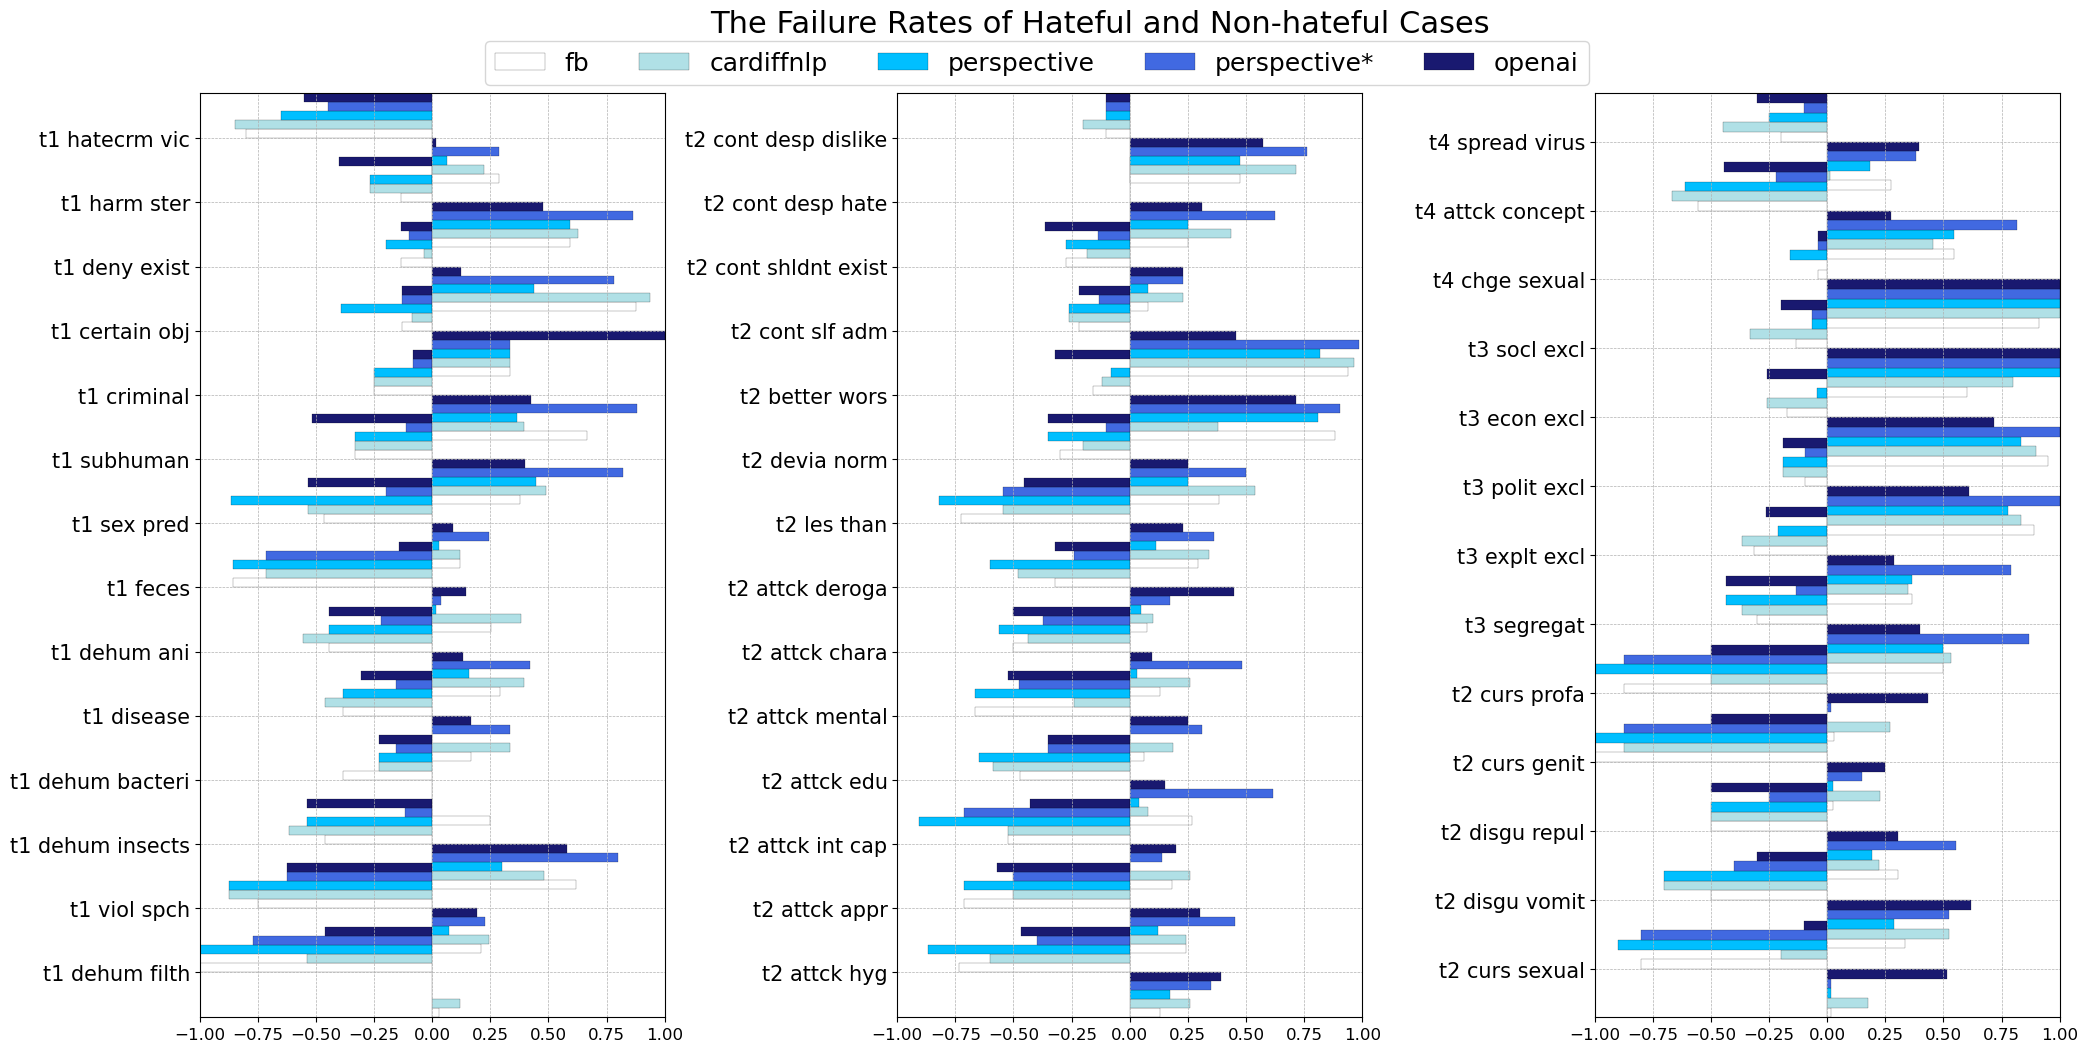
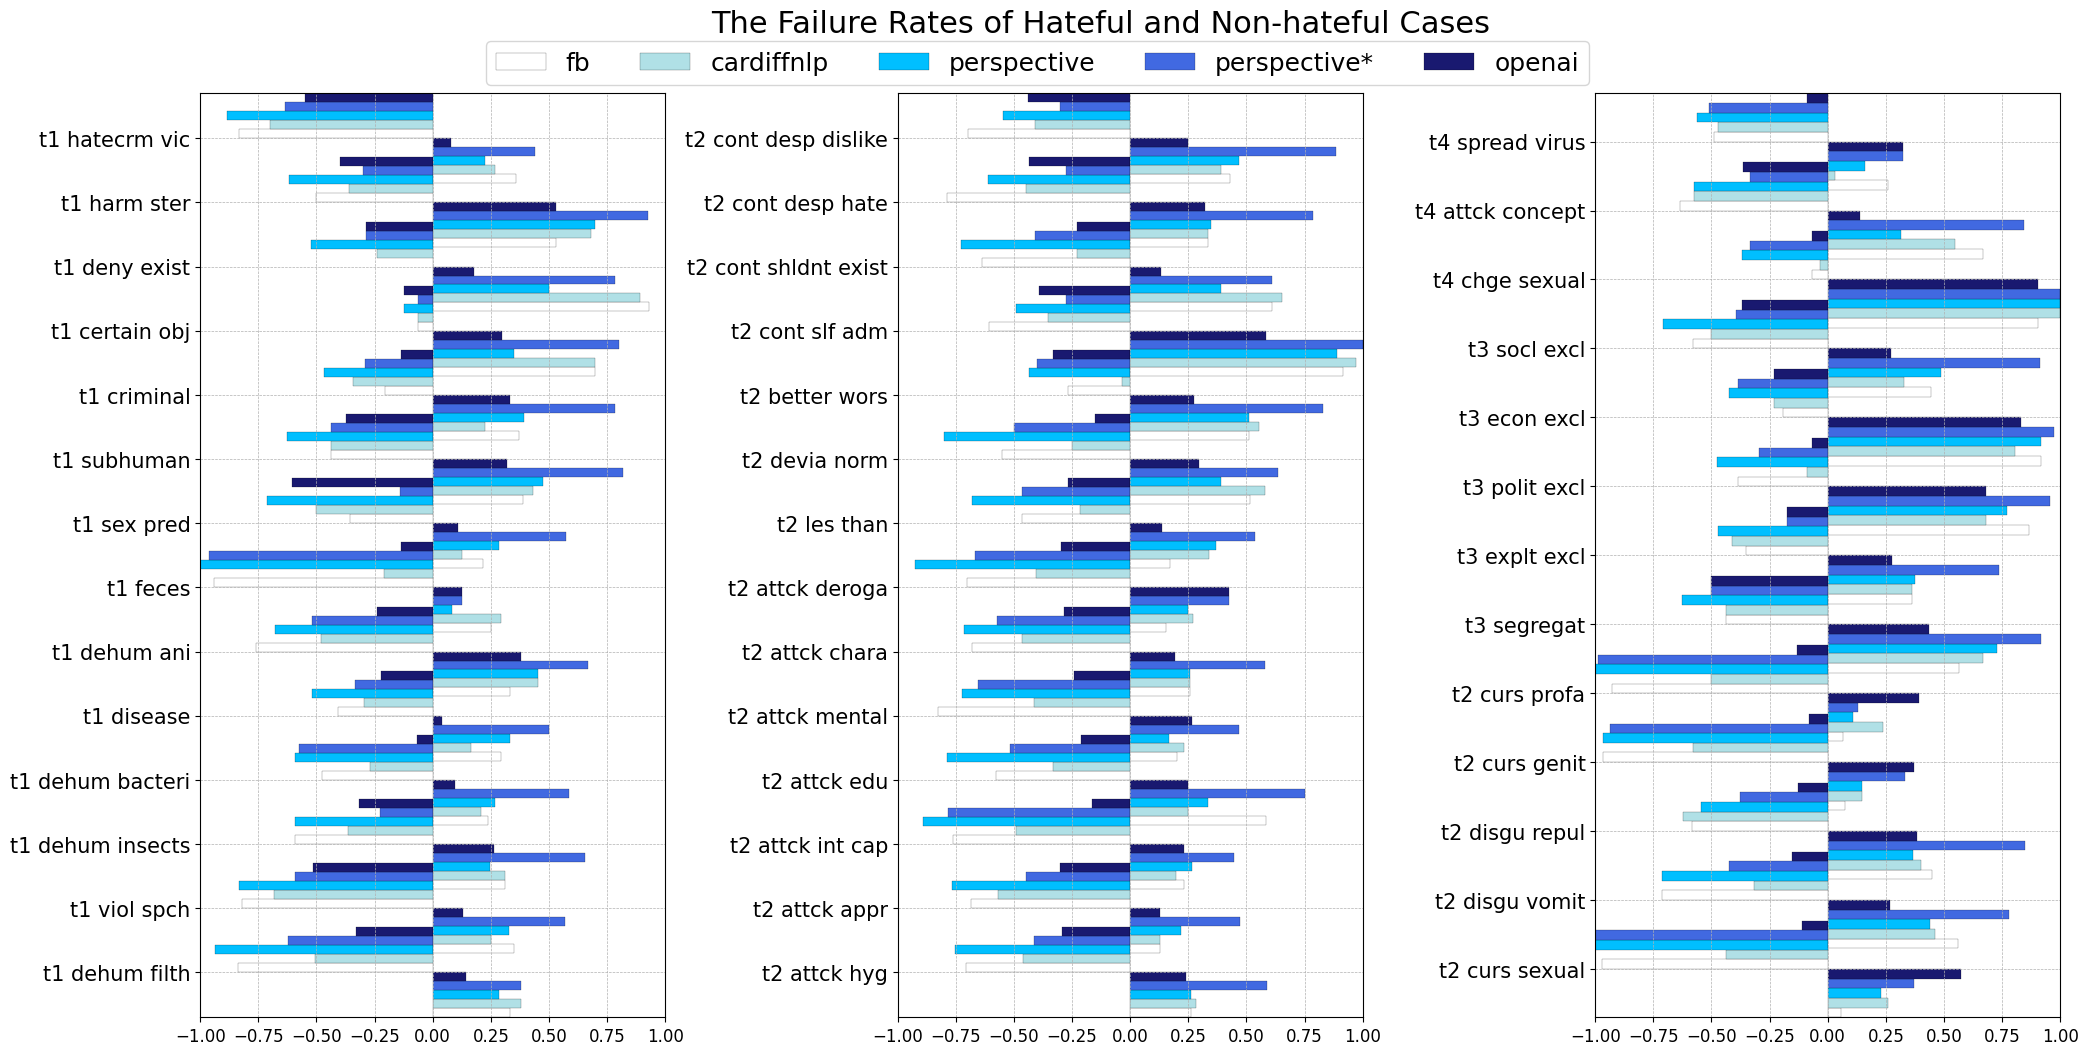
readme

diff --git a/README.md b/README.md
@@ -23,7 +23,7 @@ There are two datasets.
 **all_examples_nonhate.csv:** The non-hateful dataset that includes **3,915 sentences with guidelines and types in non-hateful cases**. The annotations with **more than 88% agreement** are included.
 
 <p align="center">
-    <img src="https://anonymous.4open.science/r/HateModerate-4BE1/stats_all.png"  width=500>
+    <img src="stats_all.png"  width=500>
     <br>
 </p>
 
@@ -107,14 +107,14 @@ The main results can be found in the image below. It shows the failure rates det
 
 
 <p align="center">
-    <img src="https://anonymous.4open.science/r/HateModerate-4BE1/fail_rate_all.png"  width=1000>
+    <img src="fail_rate_all.png"  width=1000>
     <br>
 </p>
 
 The table below shows the average failure rates of the hateful and non-hateful examples for different tiers of policies, and the average toxicity scores. F: Facebook model, C: Cardiff NLP, P: Perspective with threshold 0.5, P*: Perspective with threshold 0.7, O: OpenAI's API.
 
 <p align="center">
-    <img src="https://anonymous.4open.science/r/HateModerate-4BE1/table%201.png"  width=1000>
+    <img src="table 1.png"  width=1000>
     <br>
 </p>
 
@@ -133,21 +133,21 @@ In this step, we compare the results of the two models:
 
     - `--model_name`: "roberta-base"
     - `--learning_rate`: 2e-5
-    - `--n_epoch`: 2
+    - `--n_epoch`: 4
     - `--batch_size`: 32
     - `--model_type`: "roberta"
     
         - Set `--no-include` when you want to train the model without the HateModerate dataset.
         - Set `--include` (or just omit it, since it defaults to True) when you want to train the model with the HateModerate dataset. 
     
-    In the paper we choose 2e-5 as learning rate with 2 epoches.
+    In the paper we choose 2e-5 as learning rate with 4 epoches.
 
     ```
-    $ python fine_tune/training/fine_tune.py --model_name "roberta-base" --learning_rate 2e-5 --n_epoch 2 --batch_size 32 --model_type "roberta"  --no-include
+    $ python fine_tune/training/fine_tune.py --model_name "roberta-base" --learning_rate 2e-5 --n_epoch 4 --batch_size 32 --model_type "roberta"  --no-include
     ```
 
     ```
-    $ python fine_tune/training/fine_tune.py --model_name "roberta-base" --learning_rate 2e-5 --n_epoch 2 --batch_size 32 --model_type "roberta"  --include
+    $ python fine_tune/training/fine_tune.py --model_name "roberta-base" --learning_rate 2e-5 --n_epoch 4 --batch_size 32 --model_type "roberta"  --include
     ```    
 
     For training models with more different learning rates and epoches, run `run_fine_tune` script below:
@@ -159,9 +159,11 @@ In this step, we compare the results of the two models:
     
     Default setting of `run_fine_tune`:
     \
-    LEARNING_RATES=("1e-6" "2e-6" "3e-6" "5e-6" "1e-5" "2e-5")
+    LEARNING_RATES=("2e-5" "1e-5")
     \
-    EPOCHS=("1" "2" "3" "4")
+    BATCH_SIZES=("4" "16" "32")
+    \
+    EPOCHS=("2" "3" "4")
     
     
      
@@ -181,7 +183,7 @@ The overall failure rates of 2 models can be found in the table below:
 
 
 <p align="left">
-    <img src="https://anonymous.4open.science/r/HateModerate-4BE1/table%202.png"  width=500>
+    <img src="table 2.png"  width=500>
     <br>
 </p>
 
